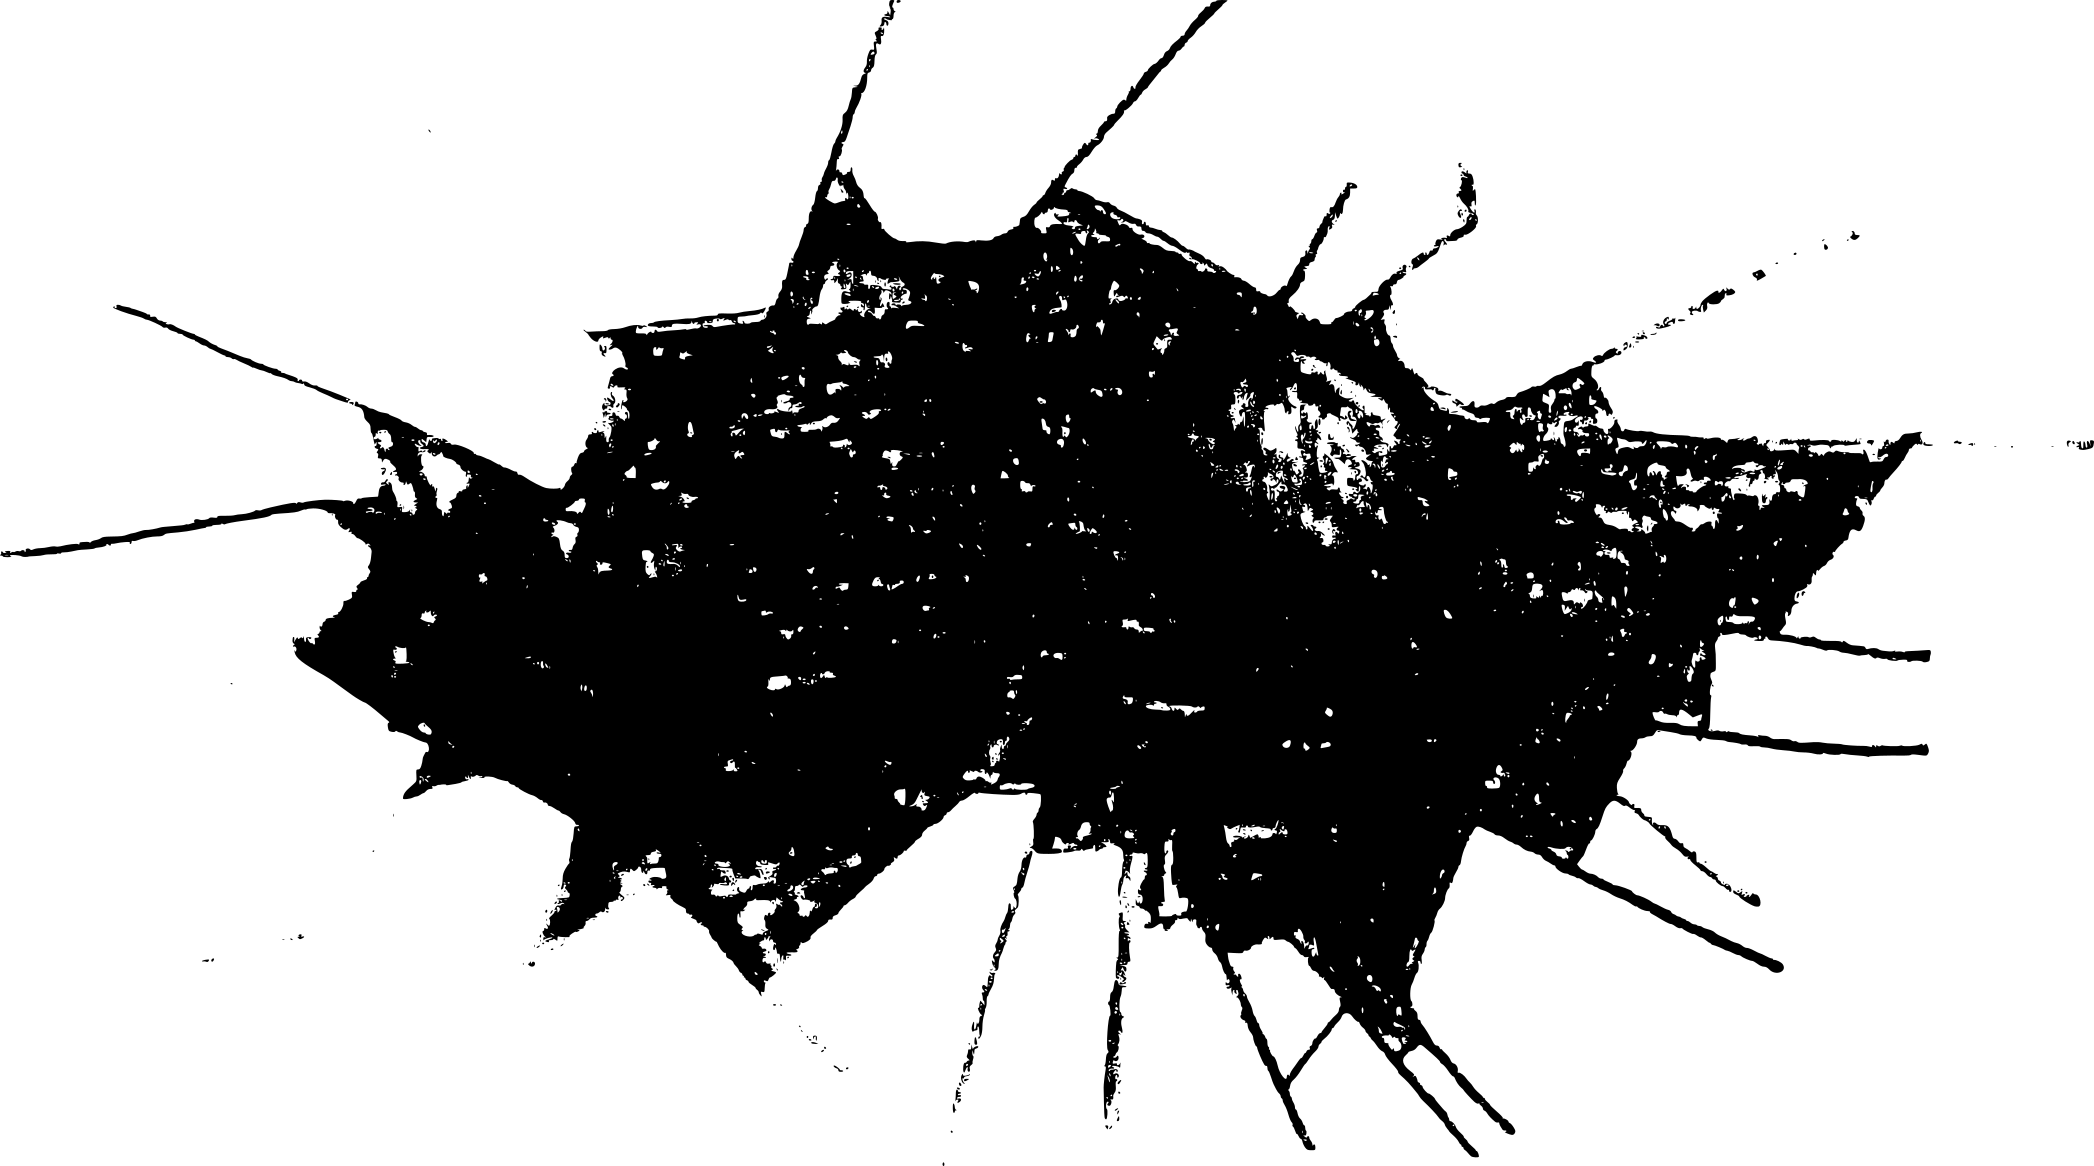
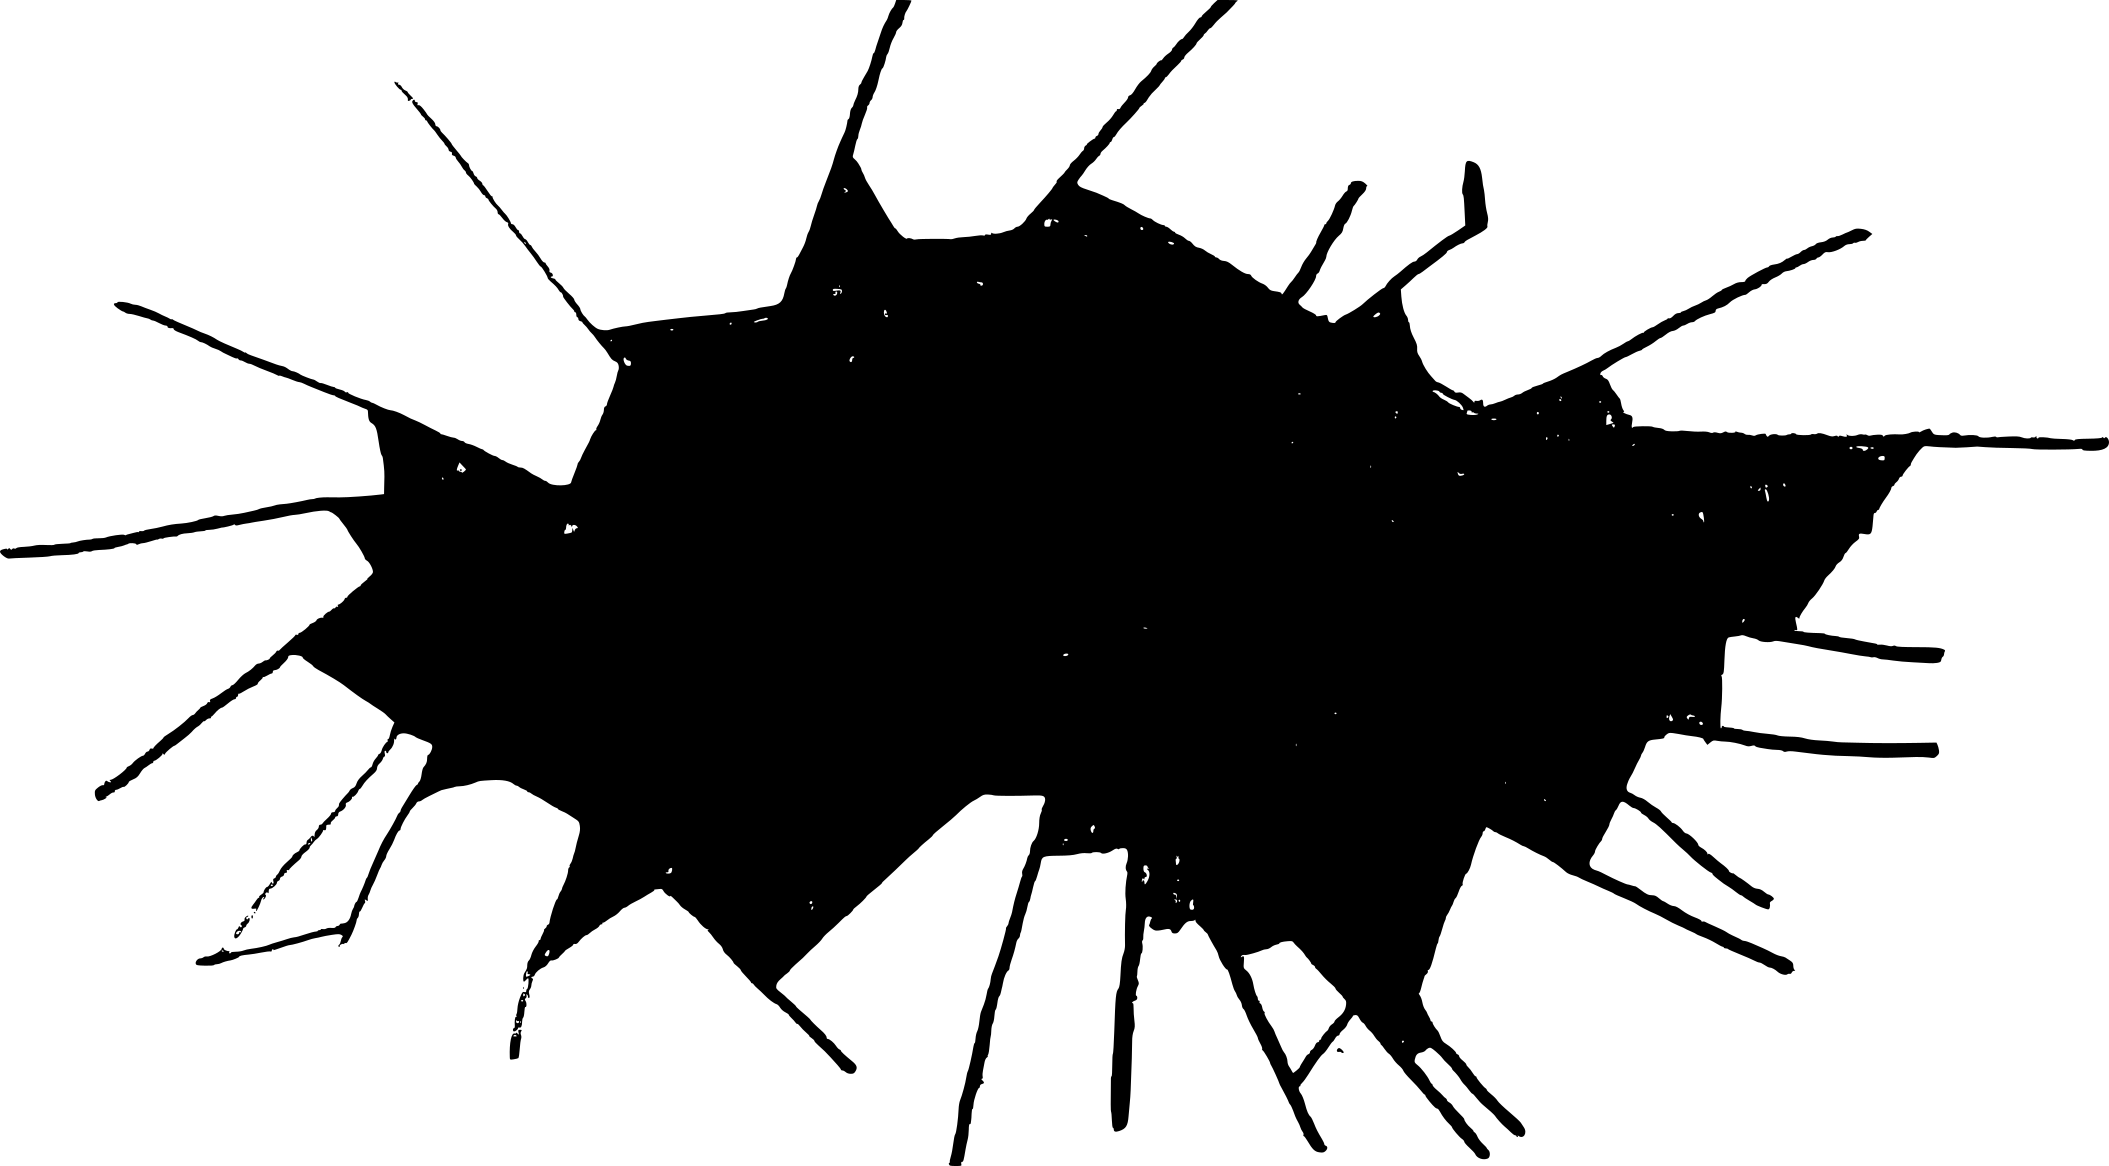
Swap in a new splat drawing, enlarge the frame, widen video margins
New artwork replaces the previous splat. Frame made bigger and taller
(aspect-ratio 1.5 instead of 1.796, max-width up to 390px), and the two
videos repositioned with more clearance from the spiky edges. Trimmed
the bird drawing a bit at a few breakpoints to keep it overflow-free.

diff --git a/styles.css b/styles.css
@@ -608,10 +608,10 @@ nav.menu a:hover, nav.menu a:focus-visible { opacity: .6; }
    donc toujours ancrée au même endroit de l'image quelle que soit la
    taille), à l'intérieur de la zone pleine de l'éclaboussure, en tout
    petit format. */
-.video-embeds { position: relative; width: 100%; max-width: min(55%, 330px); margin: 0 auto; aspect-ratio: 1.796; background: url(video-frame.png) center / 100% 100% no-repeat; }
-.video-embed { position: absolute; width: 17%; }
-.video-embed:nth-child(1) { left: 28%; top: 30%; }
-.video-embed:nth-child(2) { left: 56%; top: 52%; }
+.video-embeds { position: relative; width: 100%; max-width: min(65%, 390px); margin: 0 auto; aspect-ratio: 1.5; background: url(video-frame.png) center / 100% 100% no-repeat; }
+.video-embed { position: absolute; width: 16%; }
+.video-embed:nth-child(1) { left: 30%; top: 36%; }
+.video-embed:nth-child(2) { left: 58%; top: 54%; }
 .video-embed-frame { position: relative; width: 100%; aspect-ratio: 16 / 9; box-sizing: border-box; border: 3px solid #000; box-shadow: 0 4px 14px rgba(0,0,0,.25); overflow: hidden; }
 .video-embed-frame iframe { position: absolute; inset: 0; width: 100%; height: 100%; border: 0; }
 .video-art { box-sizing: border-box; display: block; width: auto; max-width: min(90%, 580px); max-height: 1400px; height: auto; margin: 0 auto; border: 3px solid #000; box-shadow: 0 4px 14px rgba(0,0,0,.25); }
@@ -671,7 +671,7 @@ body.video-page .frame-content { gap: .75rem; }
      oiseaux dépassaient légèrement la zone noire, forçant un petit scroll
      interne inutile - on resserre et on plafonne un peu plus bas. */
   body.video-page .frame-content { gap: .4rem; padding-top: .5rem; padding-bottom: .5rem; }
-  body.video-page .video-art { max-height: 50vw; }
+  body.video-page .video-art { max-height: 43vw; }
   .video-top-row { max-width: 46vw; gap: .5rem; }
   .video-figures { width: min(46%, 112px); }
   .tv-wrap { width: min(36%, 88px); }
@@ -706,7 +706,7 @@ body.video-page .frame-content { gap: .75rem; }
 /* même raison qu'au-dessus : sous ~360px, la paire de vidéos + le dessin
    des oiseaux ne tiennent plus avec la marge habituelle - léger rabais. */
 @media (max-width: 360px) {
-  body.video-page .video-art { max-height: 46vw; }
+  body.video-page .video-art { max-height: 39vw; }
 }
 @media (max-width: 360px) {
   .bcm-cover { width: min(24%, 120px); }
@@ -740,7 +740,7 @@ body.video-page .frame-content { gap: .75rem; }
      débordement sur leurs pages, pas besoin du même plafond ici. */
   .tv-wrap { width: min(20vw, 282px); }
   .video-figures { width: auto; max-width: min(24vw, 338px); max-height: min(28vw, 395px); }
-  .video-art { max-height: min(54.5vw, 768px); }
+  .video-art { max-height: min(47vw, 662px); }
   .comodoro-art { max-height: 20vw; }
   .contact-art { max-height: 44vw; }
 }
@@ -750,7 +750,7 @@ body.video-page .frame-content { gap: .75rem; }
    jusqu'à la frise du bas, sans toucher la zone 641-900px plus à l'étroit.
    Même plafond px que ci-dessus au-delà de ~1410px de viewport. */
 @media (min-width: 900px) {
-  .video-art { max-height: min(53.5vw, 754px); }
+  .video-art { max-height: min(46vw, 648px); }
 }
 
 /* page comodoro (mobile) : doit tenir sur un seul écran, sans aucun scroll.

diff --git a/video-es.html b/video-es.html
@@ -17,7 +17,7 @@
 <meta property="og:image:height" content="602">
 <meta name="twitter:card" content="summary_large_image">
 <link rel="icon" type="image/png" href="favicon.png?v=2">
-<link rel="stylesheet" href="styles.css?v=303">
+<link rel="stylesheet" href="styles.css?v=304">
 <script type="application/ld+json">
 {
   "@context": "https://schema.org",

diff --git a/video-fr.html b/video-fr.html
@@ -17,7 +17,7 @@
 <meta property="og:image:height" content="602">
 <meta name="twitter:card" content="summary_large_image">
 <link rel="icon" type="image/png" href="favicon.png?v=2">
-<link rel="stylesheet" href="styles.css?v=303">
+<link rel="stylesheet" href="styles.css?v=304">
 <script type="application/ld+json">
 {
   "@context": "https://schema.org",

diff --git a/video-ro.html b/video-ro.html
@@ -17,7 +17,7 @@
 <meta property="og:image:height" content="602">
 <meta name="twitter:card" content="summary_large_image">
 <link rel="icon" type="image/png" href="favicon.png?v=2">
-<link rel="stylesheet" href="styles.css?v=303">
+<link rel="stylesheet" href="styles.css?v=304">
 <script type="application/ld+json">
 {
   "@context": "https://schema.org",

diff --git a/video.html b/video.html
@@ -17,7 +17,7 @@
 <meta property="og:image:height" content="602">
 <meta name="twitter:card" content="summary_large_image">
 <link rel="icon" type="image/png" href="favicon.png?v=2">
-<link rel="stylesheet" href="styles.css?v=303">
+<link rel="stylesheet" href="styles.css?v=304">
 <script type="application/ld+json">
 {
   "@context": "https://schema.org",
